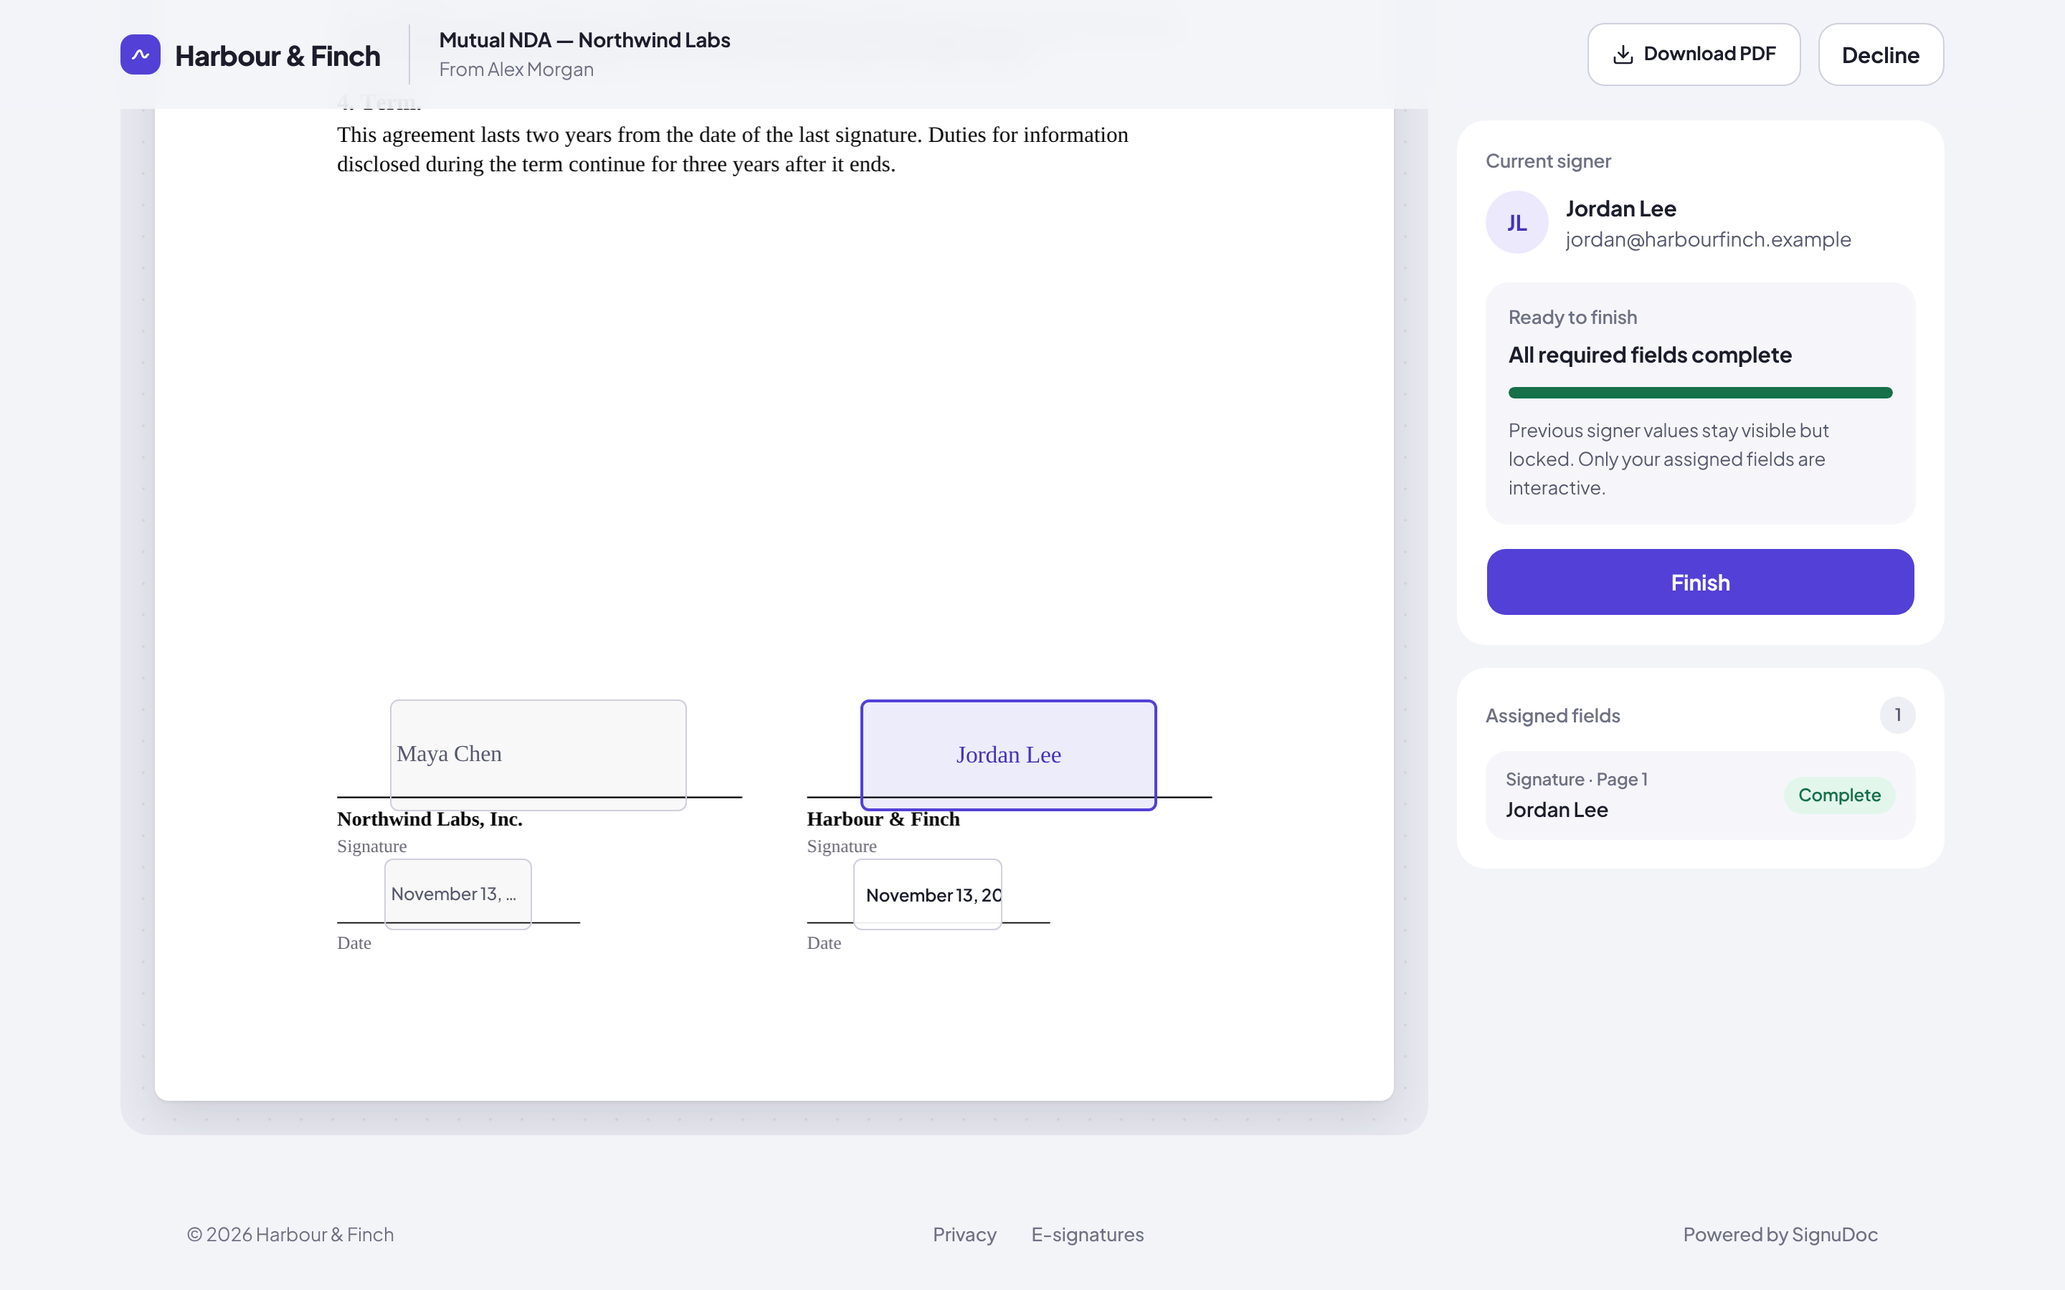
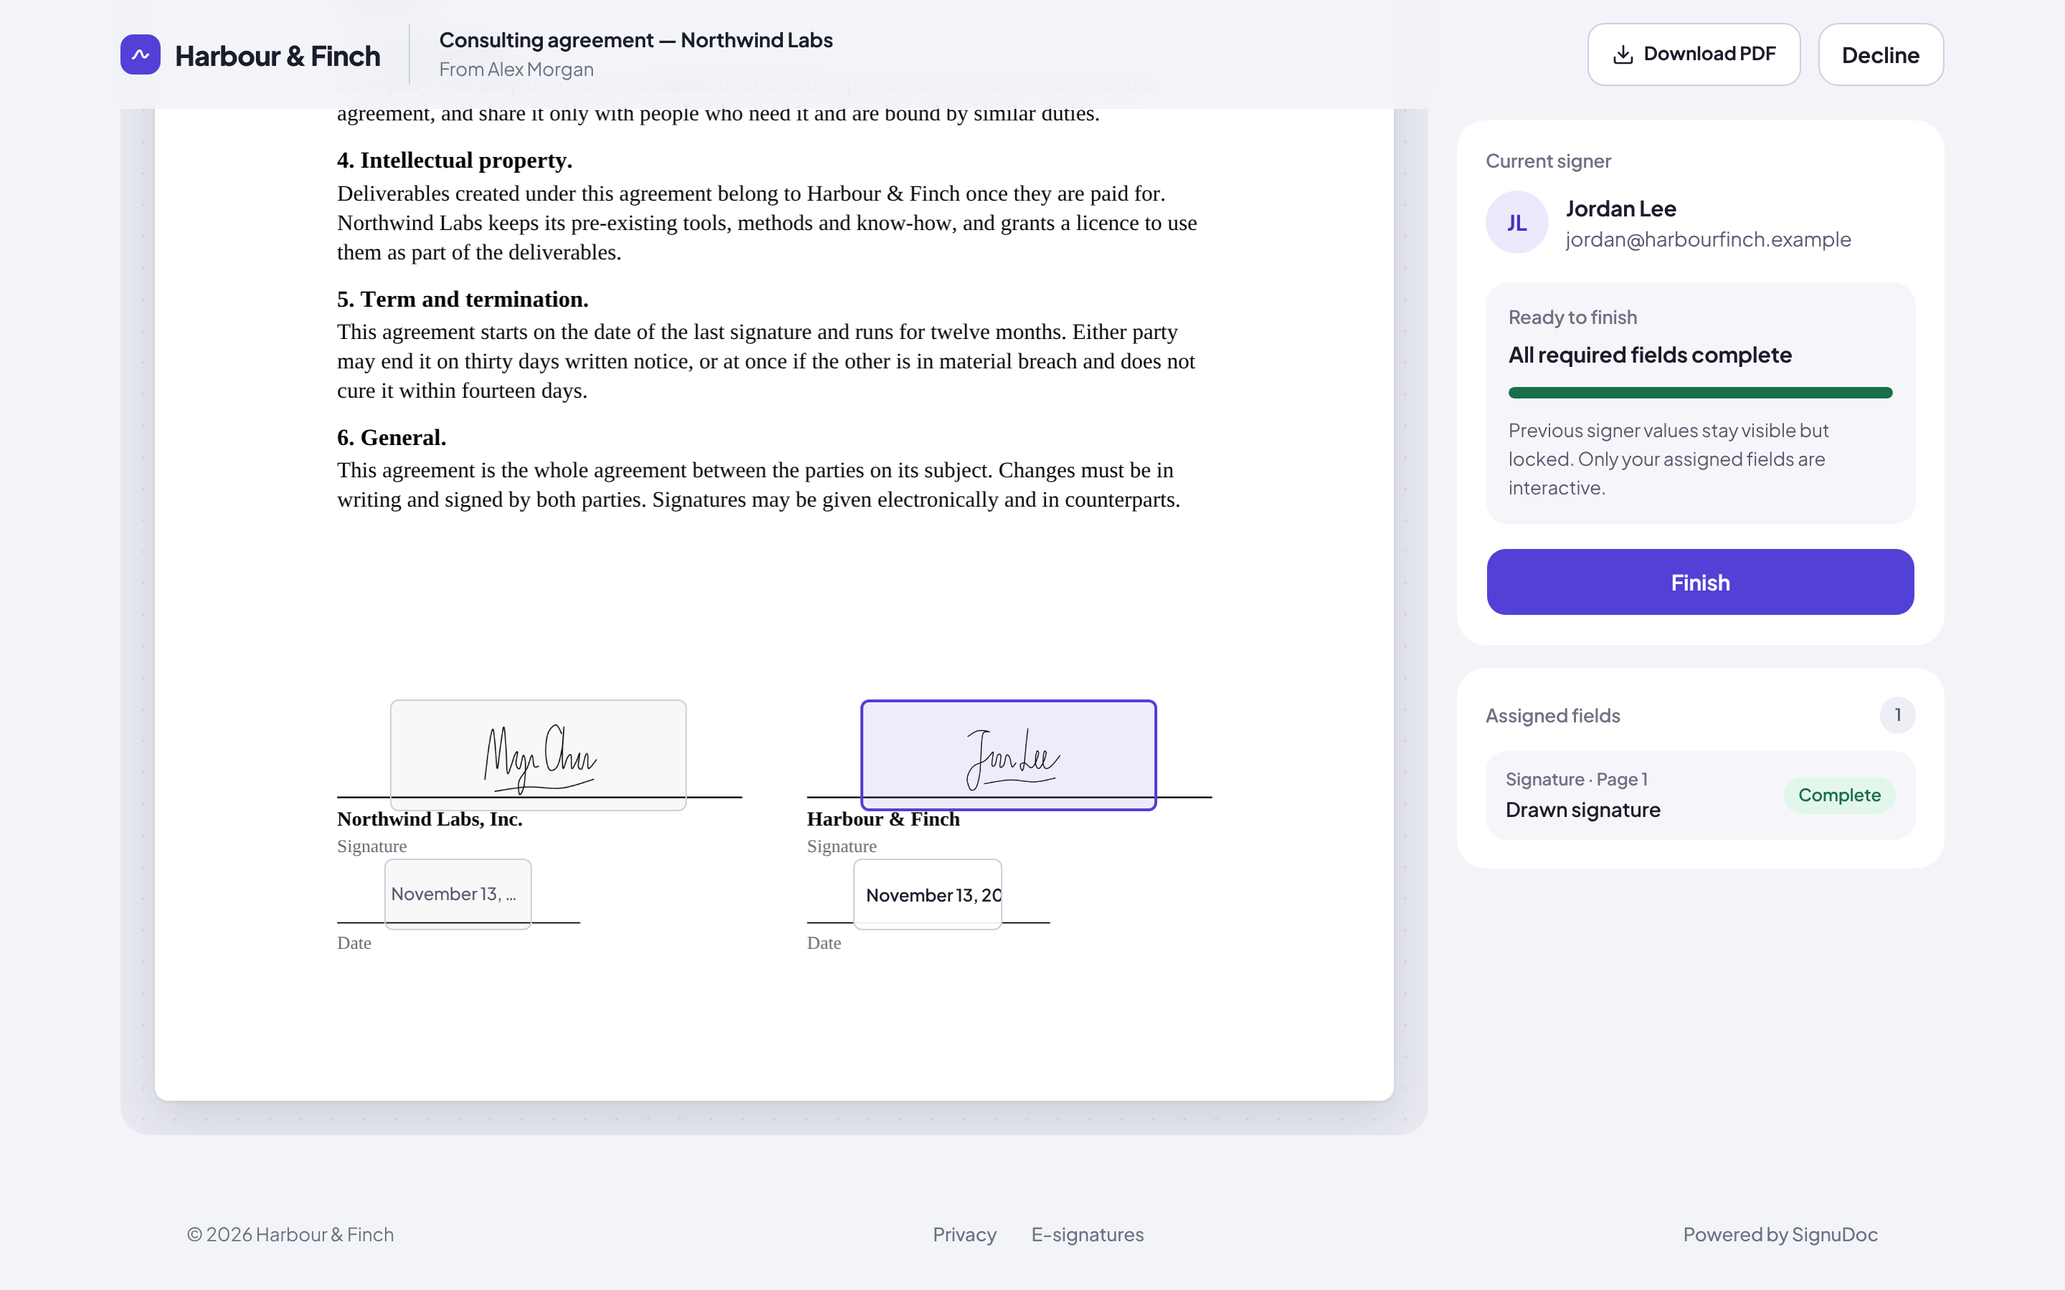
Add new README graphics and bring DocuSign's prices up to date
New graphics, all built from captures of the running app:
- banner.png: a new intro graphic with a signer drawing a signature
- how-it-works.png: upload, sign, done, in three steps
- compare.png: a green check for each feature on both sides, with the
  DocuSign plan each one needs
- only-signudoc.png: six things DocuSign doesn't offer
- price.png: what a 15-person company pays in a year

They replace versus.png and cost.png. signing.png now shows a drawn
signature.

DocuSign's US pricing page now lists $11, $30 and $45 per user a month
on annual plans, so the README's figures and tables use those. The row
on checking a signed copy no longer says DocuSign has no way to do it:
both seal the PDF, and SignuDoc adds a Verify page.

Claude-Session: https://claude.ai/code/session_017DYqKHB6pKB5W1X1djhx53

diff --git a/README.md b/README.md
@@ -1,5 +1,5 @@
 <p align="center">
-  <img src="docs/images/banner.png" alt="SignuDoc: e-signatures that are yours, on your own Vercel account. Open source, deployed in one click, with no per-seat or per-envelope fees, and sealed PDFs anyone can check.">
+  <img src="docs/images/banner.png" alt="SignuDoc: e-signatures you actually own. Open source and MIT licensed. Send, sign and seal documents from your own Vercel account, at $0 per seat. Shown: a signer drawing a signature on a consulting agreement, and both signers marked Signed.">
 </p>
 
 <p align="center">
@@ -21,7 +21,7 @@
 
 ## Why SignuDoc
 
-**Pay for hosting, not for every person who sends.** SignuDoc is free and open source and runs on your own Vercel account. A team of 50 pays about $480 a year for Vercel Pro and Resend. On DocuSign Standard the same team pays $15,000, and on Business Pro $24,000.
+**Pay for hosting, not for every person who sends.** SignuDoc is free and open source and runs on your own Vercel account. A 15-person company pays DocuSign $8,100 a year for Business Pro seats, or $5,400 for Standard. With SignuDoc the seats cost nothing, and the same company pays Vercel about $240 a year to host it.
 
 **No envelope allowance to watch.** DocuSign's Standard and Business Pro plans include 100 envelopes per user per year. SignuDoc has no limit of its own: you send as many documents as your email plan carries.
 
@@ -32,6 +32,10 @@
 **One click, nothing to look after.** The Deploy button creates the database, the file store and email for you, on free plans. There are no servers to patch, and every push to your copy deploys again.
 
 ## Everything it takes to get a document signed
+
+<p align="center">
+  <img src="docs/images/how-it-works.png" alt="How it works. 1: upload a PDF and place the fields. 2: signers open a link from their email and type or draw a signature, on any device. 3: everyone gets the sealed PDF and its audit certificate.">
+</p>
 
 ### Prepare a document in minutes
 
@@ -47,7 +51,7 @@ Upload a PDF, add up to 10 signers in the order they sign, and add people who on
 
 Each signer gets a link by email, agrees to use electronic records, and signs with a typed or drawn signature on any phone, tablet or computer. Fields from earlier signers stay visible and locked. Signers can download the document before they sign, or decline with a reason, and the sender is told.
 
-![Jordan Lee signing a mutual NDA, with the signature applied and the earlier signer's signature locked](docs/images/signing.png)
+![Jordan Lee signing a consulting agreement with a drawn signature, with the earlier signer's signature locked](docs/images/signing.png)
 
 ### Know who is signing
 
@@ -91,22 +95,26 @@ SignuDoc works on small screens as well as large ones: check on your documents f
 
 ## SignuDoc and DocuSign, side by side
 
-DocuSign does more, and charges for it per user. SignuDoc does the everyday signing loop well, and it's yours. DocuSign's plans are as [DocuSign listed them](https://ecom.docusign.com/plans-and-pricing/esignature) in October 2026, for the US.
+DocuSign does more, and charges for it per user. SignuDoc does the everyday signing loop well, and it's yours. DocuSign's plans are as [DocuSign listed them](https://ecom.docusign.com/plans-and-pricing/esignature) in November 2026, for the US.
 
 <p align="center">
-  <img src="docs/images/versus.png" alt="Where SignuDoc takes the lead: price, envelope limits, where documents live, source code, features included in every install, checking a signed copy, a hash-chained audit trail and your own web address">
+  <img src="docs/images/compare.png" alt="SignuDoc and DocuSign eSignature side by side, each with a green check for: signing without an account; signing order and copy recipients; signature, initials, date, text and checkbox fields; dropdown and radio button fields (on DocuSign: Business Pro, $45 a seat); reusable templates; deadlines and automatic reminders; your own logo and brand color (on DocuSign: from Standard, $30 a seat); accounts for your whole team (on DocuSign: from Standard); consent to electronic records; audit trail and certificate of completion; a tamper-evident seal on the finished PDF; and working on a phone. To tick every box on DocuSign you need Business Pro at $45 per user a month.">
+</p>
+
+<p align="center">
+  <img src="docs/images/only-signudoc.png" alt="Six things DocuSign doesn't offer: open source (DocuSign is closed source), runs in your own cloud (DocuSign runs only in its own), no per-seat fees (DocuSign charges $30 or $45 a seat a month), no envelope allowance (DocuSign includes 100 per user a year), every feature included (DocuSign splits them across four plans), and no cap on users (DocuSign's listed plans stop at 50).">
 </p>
 
 ### Price and ownership
 
-|                                  | SignuDoc                                                                                  | DocuSign eSignature                                                                    |
-| -------------------------------- | ----------------------------------------------------------------------------------------- | -------------------------------------------------------------------------------------- |
-| **Price**                        | Free and open source. You pay Vercel, and Resend once you send more than 100 emails a day | $10 (Personal), $25 (Standard) or $40 (Business Pro) per user a month, billed annually |
-| **Envelopes**                    | No limit of its own                                                                       | 5 a month on Personal, 100 per user a year on Standard and Business Pro                |
-| **Where it runs**                | Your Vercel account, with your Neon database and Blob store                               | DocuSign's cloud                                                                       |
-| **Where data is kept**           | The region you choose, the EU included                                                    | DocuSign's data centers, the EU included                                               |
-| **Source code**                  | MIT license, on GitHub                                                                    | Closed                                                                                 |
-| **Your own domain and branding** | ✅ your domain, logo and color, on every plan                                             | Logo and colors from Standard                                                          |
+|                                  | SignuDoc                                                                                  | DocuSign eSignature                                                                      |
+| -------------------------------- | ----------------------------------------------------------------------------------------- | ---------------------------------------------------------------------------------------- |
+| **Price**                        | Free and open source. You pay Vercel, and Resend once you send more than 100 emails a day | $11 (Personal), $30 (Standard) or $45 (Business Pro) per user a month, on an annual plan |
+| **Envelopes**                    | No limit of its own                                                                       | 5 a month on Personal, 100 per user a year on Standard and Business Pro                  |
+| **Where it runs**                | Your Vercel account, with your Neon database and Blob store                               | DocuSign's cloud                                                                         |
+| **Where data is kept**           | The region you choose, the EU included                                                    | DocuSign's data centers, the EU included                                                 |
+| **Source code**                  | MIT license, on GitHub                                                                    | Closed                                                                                   |
+| **Your own domain and branding** | ✅ your domain, logo and color, in every install                                          | Logo and colors from Standard                                                            |
 
 ### The signing loop
 
@@ -115,14 +123,14 @@ DocuSign does more, and charges for it per user. SignuDoc does the everyday sign
 | **Signing without an account**               | ✅                                                                                               | ✅                                                                           |
 | **Signing order**                            | ✅ in order, up to 10 signers                                                                    | ✅ in order, at the same time, or mixed                                      |
 | **People who only get a copy**               | ✅                                                                                               | ✅ and more roles: approvers, editors, in-person signers                     |
-| **Field types**                              | ✅ signature, initials, date, text, number, checkbox, dropdown, radio, each required or optional | ✅ 20+, with formulas and attachments on Business Pro                        |
+| **Field types**                              | ✅ signature, initials, date, text, number, checkbox, dropdown, radio, each required or optional | ✅ more types; dropdown, radio and signer attachments need Business Pro      |
 | **Templates**                                | ✅                                                                                               | ✅ from Personal, shared from Standard                                       |
 | **Deadlines and automatic reminders**        | ✅                                                                                               | ✅                                                                           |
 | **Access code and emailed one-time code**    | ✅                                                                                               | ✅ plus SMS, phone, knowledge-based questions and ID checks, as paid add-ons |
 | **Consent to electronic records**            | ✅ versioned, recorded in the audit trail                                                        | ✅                                                                           |
 | **Sealed PDF and certificate of completion** | ✅ PAdES seal, self-signed by default or your own trusted certificate                            | ✅ seal trusted by PDF readers                                               |
 | **Audit trail**                              | ✅ hash-chained                                                                                  | ✅                                                                           |
-| **Public check of a signed copy**            | ✅ the Verify page                                                                               | —                                                                            |
+| **Checking a signed copy**                   | ✅ the seal in a PDF reader, and a public Verify page on your own site                           | ✅ the seal in a PDF reader                                                  |
 | **Retention rules and signer data requests** | ✅ built in                                                                                      | ✅                                                                           |
 | **Phones**                                   | ✅ in the browser                                                                                | ✅ native iPhone and Android apps                                            |
 
@@ -156,17 +164,17 @@ SignuDoc is free. Vercel and its Marketplace partners run it, at their own price
 | **Your own domain, if you want one** | Whatever your registrar charges. Vercel Pro includes one free for the first year.                                                                                                                                                                                                                  |
 
 <p align="center">
-  <img src="docs/images/cost.png" alt="A year of e-signatures. 5 people: DocuSign Business Pro $2,400, Standard $1,500, SignuDoc $240. 10 people: $4,800, $3,000, $480. 25 people: $12,000, $7,500, $480. 50 people: $24,000, $15,000, $480.">
+  <img src="docs/images/price.png" alt="15 people, one year. DocuSign Business Pro: 15 seats at $45 a month each is $8,100 a year, with 1,500 envelopes included, and person 16 adds $540 a year. On DocuSign Standard, at $30 a seat, the same team pays $5,400 a year and goes without dropdown and radio fields. SignuDoc: $0 a year in seat fees, no envelope allowance, and person 16 adds $0. Hosting is separate and not per person: a company pays Vercel about $20 a month. Even after $240 a year of hosting, that team keeps $7,860 a year.">
 </p>
 
-| A year, billed annually | DocuSign Standard | DocuSign Business Pro | SignuDoc                                                     |
-| ----------------------- | ----------------- | --------------------- | ------------------------------------------------------------ |
-| **5 people**            | $1,500            | $2,400                | $240                                                         |
-| **10 people**           | $3,000            | $4,800                | $480                                                         |
-| **25 people**           | $7,500            | $12,000               | $480                                                         |
-| **50 people**           | $15,000           | $24,000               | $480, plus any database or file use past the free allowances |
+| A year, on an annual plan | DocuSign Standard | DocuSign Business Pro | SignuDoc                                                     |
+| ------------------------- | ----------------- | --------------------- | ------------------------------------------------------------ |
+| **5 people**              | $1,800            | $2,700                | $240                                                         |
+| **15 people**             | $5,400            | $8,100                | $240                                                         |
+| **25 people**             | $9,000            | $13,500               | $480                                                         |
+| **50 people**             | $18,000           | $27,000               | $480, plus any database or file use past the free allowances |
 
-SignuDoc's figures assume Vercel Pro, plus Resend Pro for any team of 10 or more. A small team that stays under Resend's 100 emails a day pays only for Vercel. DocuSign's figures are its list prices; Standard stops at 50 users, and larger plans are quoted. Prices change, so check them before you quote these.
+SignuDoc's figures are Vercel Pro at $20 a month, plus Resend Pro at $20 a month from 25 people up. A team that stays under Resend's free 100 emails a day and 3,000 a month pays only for Vercel. DocuSign's figures are its US list prices for annual plans, $30 a user a month on Standard and $45 on Business Pro, each with 100 envelopes per user a year. Those plans stop at 50 users, and larger ones are quoted. Prices change, so check them before you quote these.
 
 ## Get started
 
@@ -229,7 +237,7 @@ The project has no email address of its own. Report a security problem privately
 
 "DocuSign" and related names, marks and logos are trademarks or registered trademarks of DocuSign, Inc. in the United States and other countries. They are used in this repository only to identify DocuSign's products for the purpose of comparison. No claim is made to any of them, and their use does not imply any relationship with, or approval by, DocuSign, Inc. All other product and company names, including Vercel, Neon and Resend, are trademarks of their respective owners, and SignuDoc is not affiliated with or endorsed by them either.
 
-The comparisons on this page were made in good faith from DocuSign's publicly available website and plan documentation as of October 2026, for its US eSignature plans, and from SignuDoc's own code. DocuSign's features, plans and prices change, vary by country and contract, and may differ from what is described here. Nothing on this page is a statement by DocuSign. Check [DocuSign's own website](https://www.docusign.com) for current and authoritative information before you rely on any of it, and tell us through a GitHub issue if something here is out of date or wrong so that it can be corrected.
+The comparisons on this page were made in good faith from DocuSign's publicly available website and plan documentation as of November 2026, for its US eSignature plans, and from SignuDoc's own code. DocuSign's features, plans and prices change, vary by country and contract, and may differ from what is described here. Nothing on this page is a statement by DocuSign. Check [DocuSign's own website](https://www.docusign.com) for current and authoritative information before you rely on any of it, and tell us through a GitHub issue if something here is out of date or wrong so that it can be corrected.
 
 The cost figures are estimates for illustration, not quotes. What you pay depends on your own use and on the prices of the services your install runs on.
 
